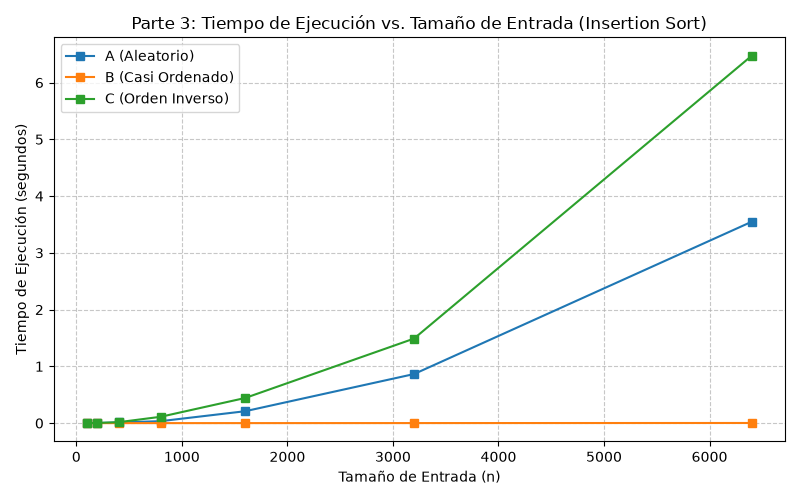
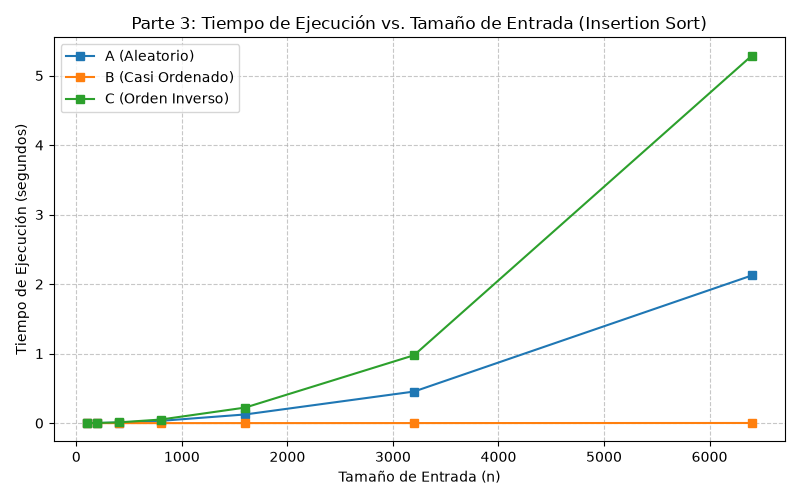
doc: Añadir parte 2,3,4 conclusiones finales

diff --git a/lab1-fundamentos-complejidad-recurrencias/parte3_casos.py b/lab1-fundamentos-complejidad-recurrencias/parte3_casos.py
@@ -1,4 +1,5 @@
 """Experimento de la Parte 3: Evaluación de Insertion Sort en Escenarios A, B y C."""
+
 import os
 import time
 import matplotlib.pyplot as plt
@@ -21,23 +22,29 @@ def ejecutar_experimento_p3():
 
     for nombre, generador in escenarios.items():
         for n in tamanos:
-            datos = (
-                generador(n, semilla=42)
-                if nombre != "C (Orden Inverso)"
-                else generador(n)
-            )
-
-            # Promedio de 3 corridas para mitigar ruido
             tiempos = []
-            comp = 0
-            for _ in range(3):
+            comparaciones_lista = []
+
+            for i in range(3):
+                # Generamos una lista nueva usando semillas distintas por corrida
+                # para que no reutilice la lista que ya fue ordenada
+                if nombre == "C (Orden Inverso)":
+                    datos = generador(n)
+                else:
+                    datos = generador(n, semilla=42 + i)
+
                 t_inicio = time.perf_counter()
                 _, comp = insertion_sort(datos)
                 t_fin = time.perf_counter()
-                tiempos.append(t_fin - t_inicio)
 
-            resultados_comp[nombre].append(comp)
-            resultados_tiempo[nombre].append(sum(tiempos) / 3)
+                tiempos.append(t_fin - t_inicio)
+                comparaciones_lista.append(comp)
+
+            # Guardamos el promedio del tiempo y de las comparaciones
+            resultados_comp[nombre].append(
+                sum(comparaciones_lista) / len(comparaciones_lista)
+            )
+            resultados_tiempo[nombre].append(sum(tiempos) / len(tiempos))
 
     # Gráfica 1: Comparaciones
     plt.figure(figsize=(8, 5))
@@ -56,7 +63,9 @@ def ejecutar_experimento_p3():
     plt.figure(figsize=(8, 5))
     for nombre in escenarios:
         plt.plot(tamanos, resultados_tiempo[nombre], marker="s", label=nombre)
-    plt.title("Parte 3: Tiempo de Ejecución vs. Tamaño de Entrada (Insertion Sort)")
+    plt.title(
+        "Parte 3: Tiempo de Ejecución vs. Tamaño de Entrada (Insertion Sort)"
+    )
     plt.xlabel("Tamaño de Entrada (n)")
     plt.ylabel("Tiempo de Ejecución (segundos)")
     plt.grid(True, linestyle="--", alpha=0.7)
@@ -67,9 +76,8 @@ def ejecutar_experimento_p3():
 
 
 if __name__ == "__main__":
-
-   if __name__ == "__main__":
     print("Iniciando experimento de la Parte 3...")
     ejecutar_experimento_p3()
-    print("✓ Experimento 3 finalizado. Revisa la carpeta 'graficas/'.")
-    
+    print(
+        "✓ Experimento 3 finalizado. Revisa la carpeta 'graficas/'."
+    )

diff --git a/lab1-fundamentos-complejidad-recurrencias/README.md b/lab1-fundamentos-complejidad-recurrencias/README.md
@@ -20,7 +20,11 @@ cd lab1-fundamentos-complejidad-recurrencias
 # 3. Ejecutar experimentos y generar gráficas
 python parte3_casos.py        # Genera parte3_comparaciones.png y parte3_tiempo.png
 python parte4_complejidad.py  # Genera parte4_tiempo.png
+```
+
+---
+
+Parte 1 — Analizar el algoritmo antes de comprar hardware
 
 
-
-Parte 1 — Analizar el algoritmo antes de comprar hardwareTamiza incumple la restricción innegociable de la ventana temporal de 4 horas (02:00 a 06:00 a. m.).Un algoritmo puede ser correcto (retornar la lista ordenada de mayor a menor riesgo) pero ineficiente e inviable (sobrepasar el tiempo disponible). Al pasar de 20.000 a 1.200.000 registros, el tamaño $n$ aumenta por un factor de 60. Como Insertion Sort es cuadrático ($O(n^2)$), sus operaciones se multiplican por $60^2 = 3.600$.Duplicar la velocidad del servidor solo reduce el tiempo a la mitad (factor de 2), pasando la ejecución de 8.3 horas a unas 4.15 horas. El proceso sigue fallando porque el cuello de botella es asintótico y algorítmico, no de hardware.Ejemplo propio de algoritmo correcto pero inviableUn módulo de consolidación de inventario con 50.000 productos diseñado con un algoritmo $O(n^3)$. Para cumplir la regla de negocio debe finalizar en una latencia máxima de 30 minutos antes de abrir las tiendas. Aunque calcula correctamente los saldos, tarda más de 12 horas continuas con 50.000 ítems, resultando inoperable.
+Tamiza incumple la restricción innegociable de la ventana temporal de 4 horas (02:00 a 06:00 a. m.).Un algoritmo puede ser correcto (retornar la lista ordenada de mayor a menor riesgo) pero ineficiente e inviable (sobrepasar el tiempo disponible). Al pasar de 20.000 a 1.200.000 registros, el tamaño $n$ aumenta por un factor de 60. Como Insertion Sort es cuadrático ($O(n^2)$), sus operaciones se multiplican por $60^2 = 3.600$.Duplicar la velocidad del servidor solo reduce el tiempo a la mitad (factor de 2), pasando la ejecución de 8.3 horas a unas 4.15 horas. El proceso sigue fallando porque el cuello de botella es asintótico y algorítmico, no de hardware.Ejemplo propio de algoritmo correcto pero inviableUn módulo de consolidación de inventario con 50.000 productos diseñado con un algoritmo $O(n^3)$. Para cumplir la regla de negocio debe finalizar en una latencia máxima de 30 minutos antes de abrir las tiendas. Aunque calcula correctamente los saldos, tarda más de 12 horas continuas con 50.000 ítems, resultando inoperable.
